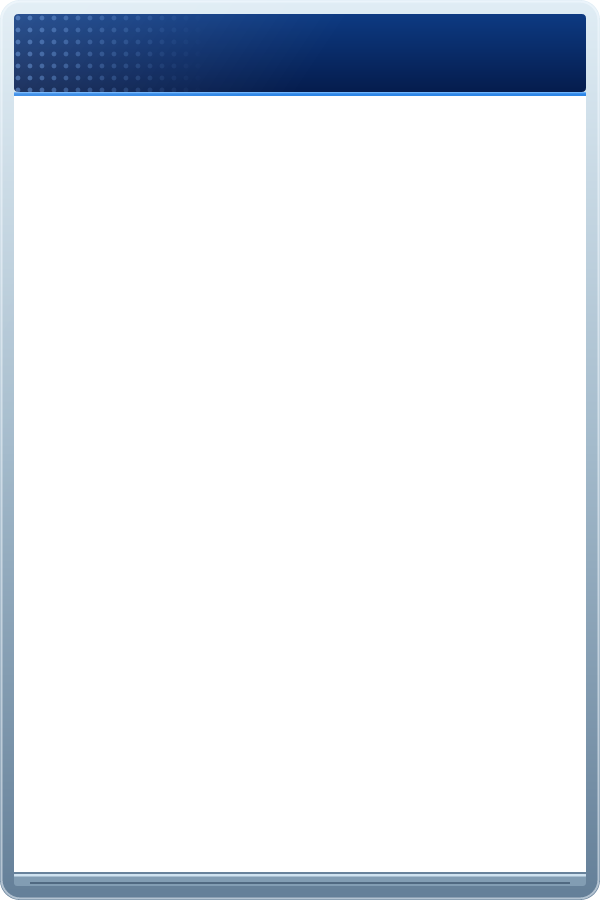
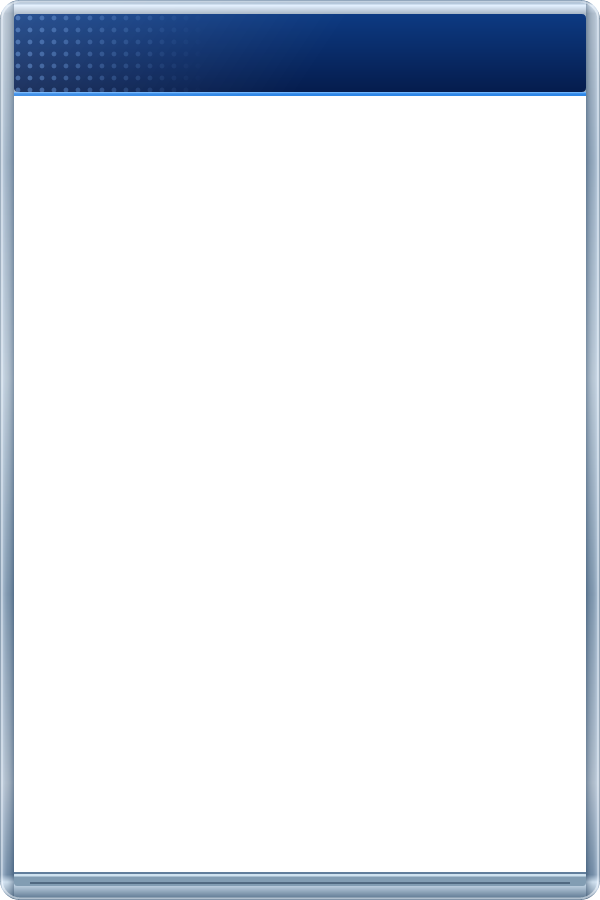
feat: refine Platinum metal and redesign trophy seat

Changed region(s): [[0.0, 0.0, 1.0, 0.9956]]

diff --git a/tools/build_platinum_rim.py b/tools/build_platinum_rim.py
@@ -1,5 +1,6 @@
 """Render platinum case material with the original frame SVG geometry."""
 import io
+import re
 import sys
 from pathlib import Path
 
@@ -12,14 +13,37 @@ from tools.build_frame import ORIGINAL_COLORS, platform_svg, FONT
 
 def main():
     palette = dict(ORIGINAL_COLORS)
-    palette.update(case_top="#e0edf5", case_mid="#a3bacb", case_bottom="#647f98",
+    palette.update(case_top="#abb9c8", case_mid="#8198b0", case_bottom="#607d9b",
                    edge="#f4faff", lip_base="#829db3", lip_high="#e4f4ff",
                    lip_shadow="#435c74")
-    data = resvg_py.svg_to_bytes(svg_string=platform_svg(palette),
+    markup = platform_svg(palette)
+    metal = '<linearGradient id="case" x1="0" y1="0" x2="0" y2="1">' + ''.join(
+        '<stop offset="%s" stop-color="%s"/>' % pair for pair in (
+            ('0','#607d9b'),('.006','#e3f0ff'),('.015','#abb9c8'),
+            ('.18','#8ba2b9'),('.42','#bac9d7'),('.66','#718ca6'),
+            ('.87','#abb9c8'),('.972','#607d9b'),('.98','#d6e7f6'),('1','#526d87'))) + '</linearGradient>'
+    markup = re.sub(r'<linearGradient id="case".*?</linearGradient>', metal, markup)
+    cross = '<linearGradient id="cross" x1="0" y1="0" x2="1" y2="0">' + ''.join(
+        '<stop offset="%s" stop-color="%s" stop-opacity="%s"/>' % stop for stop in (
+            ('0','#344e69','.6'),('.004','#e3f0ff','.5'),('.012','#abb9c8','.25'),
+            ('.023','#344e69','.45'),('.024','#abb9c8','0'),
+            ('.976','#abb9c8','0'),('.977','#344e69','.45'),
+            ('.988','#abb9c8','.25'),('.996','#e3f0ff','.5'),('1','#344e69','.6'))) + '</linearGradient>'
+    markup = markup.replace('</defs>', cross + '</defs>')
+    # A material reflection on the existing body, before the original bevel,
+    # lip and header layers. This introduces no new outline or geometry.
+    markup = markup.replace('<rect x="1.5"',
+        '<rect width="600" height="900" rx="20" fill="url(#cross)"/><rect x="1.5"', 1)
+    data = resvg_py.svg_to_bytes(svg_string=markup,
                                 width=600, height=900, font_files=[FONT])
     output = Path(__file__).resolve().parents[1] / "assets" / "platinum-rim.png"
     Image.open(io.BytesIO(data)).save(output)
     print(output)
+    trophy = output.with_name("platinum-trophy.png")
+    source = output.parents[1] / "tools" / "src" / "platinum-trophy.svg"
+    Image.open(io.BytesIO(resvg_py.svg_to_bytes(svg_string=source.read_text(),
+               width=600, height=900))).save(trophy)
+    print(trophy)
 
 
 if __name__ == "__main__":

diff --git a/platinum_frame.py b/platinum_frame.py
@@ -1,37 +1,14 @@
 """Original platinum rim and trophy, composited over an existing platform frame."""
 from functools import lru_cache
 
-from PIL import Image, ImageDraw
+from PIL import Image
 
 
 @lru_cache(maxsize=1)
 def overlay():
-    scale = 3
-    size = (600, 900)
-    layer = Image.new("RGBA", (size[0] * scale, size[1] * scale))
-    draw = ImageDraw.Draw(layer)
-
-    def box(coords):
-        return tuple(value * scale for value in coords)
-
-    # One original cup silhouette, centered entirely in the lower lip.
-    outline = (40, 57, 75, 255)
-    metal = (226, 239, 247, 255)
-    light = (250, 253, 255, 255)
-    shadow = (126, 162, 186, 255)
-    draw.ellipse(box((276, 874, 324, 897)), fill=outline)
-    draw.ellipse(box((278, 876, 322, 895)), fill=(77, 105, 129, 255))
-    draw.arc(box((281, 876, 297, 890)), 70, 275, fill=metal, width=2 * scale)
-    draw.arc(box((303, 876, 319, 890)), 265, 110, fill=metal, width=2 * scale)
-    draw.polygon([(x * scale, y * scale) for x, y in
-                  ((287, 876), (313, 876), (310, 886), (305, 890),
-                   (295, 890), (290, 886))], fill=metal)
-    draw.line(box((291, 878, 295, 886, 299, 888)), fill=light, width=scale)
-    draw.line(box((309, 878, 305, 886, 302, 888)), fill=shadow, width=scale)
-    draw.rectangle(box((298, 890, 302, 893)), fill=metal)
-    draw.rounded_rectangle(box((292, 893, 308, 896)), radius=scale,
-                           fill=metal, outline=outline, width=scale)
-    return layer.resize(size, Image.Resampling.LANCZOS)
+    from platform_catalog import local_asset
+    with Image.open(local_asset("assets/platinum-trophy.png")) as source:
+        return source.convert("RGBA")
 
 
 def apply(frame):

diff --git a/tests/test_platinum.py b/tests/test_platinum.py
@@ -35,14 +35,16 @@ class PlatinumWorkflow(unittest.TestCase):
                     self.assertEqual(b.size, (600, 900))
                     self.assertEqual(a.getchannel("A").tobytes(), b.getchannel("A").tobytes())
                     self.assertEqual(a.crop((14, 14, 586, 96)).tobytes(), b.crop((14, 14, 586, 96)).tobytes())
-                    self.assertIsNone(ImageChops.difference(a.crop((14, 96, 586, 872)),
-                                                             b.crop((14, 96, 586, 872))).getbbox())
+                    self.assertIsNone(ImageChops.difference(a.crop((14, 96, 586, 836)),
+                                                             b.crop((14, 96, 586, 836))).getbbox())
                     self.assertIsNone(ImageChops.difference(a.crop((38, 20, 562, 84)),
                                                              b.crop((38, 20, 562, 84))).getbbox())
                     for point in ((0, 450), (599, 450), (300, 0), (300, 899)):
                         self.assertNotEqual(a.getpixel(point), b.getpixel(point))
                     self.assertNotEqual(a.getpixel((300, 884)), b.getpixel((300, 884)))
                     self.assertEqual(b.getpixel((300, 500)), a.getpixel((300, 500)))
+                    for region in ((14, 836, 238, 872), (363, 836, 586, 872)):
+                        self.assertEqual(a.crop(region).tobytes(), b.crop(region).tobytes())
                     self.assertTrue(sc.is_steamcase_cover(platinum))
 
     def test_settings_preview_batch_export_and_prepared_cover(self):

diff --git a/tools/build_platinum_preview.py b/tools/build_platinum_preview.py
@@ -56,6 +56,19 @@ def main():
                     cover = cover.convert("RGB").resize(CELL, Image.Resampling.LANCZOS)
                     canvas.paste(cover, (20 + col * 170, y + 16))
     canvas.save(target, optimize=True)
+    import platinum_frame
+    details = Image.new("RGB", (840, 660), "#172536")
+    pen = ImageDraw.Draw(details)
+    with Image.open(root / "assets" / "frames" / "steam.png") as source:
+        normal = source.convert("RGBA")
+    for col, frame in enumerate((normal, platinum_frame.apply(normal))):
+        pen.text((20 + col * 420, 12), "Normal" if col == 0 else "Platinum V2", fill="white")
+        for row, region in enumerate(((0, 0, 100, 100), (0, 350, 35, 450), (230, 830, 370, 900))):
+            crop = frame.crop(region)
+            factor = min(3, 380 // crop.width, 200 // crop.height)
+            crop = crop.resize((crop.width * factor, crop.height * factor), Image.Resampling.LANCZOS)
+            details.paste(crop, (20 + col * 420, 40 + row * 200), crop)
+    details.save(root / "docs" / "platinum-details.png")
     print(target)
 
 

diff --git a/AGENTS.md b/AGENTS.md
@@ -5,6 +5,6 @@
 - `steamcase.py` owns Steam discovery, rendering, apply, portable artwork export/import, backup and restore. `platform_catalog.py` is data-only. `cover_workflow.py` owns source search, cached artwork, credential access and platform export. `case_service.py` composes these backends for both single and bulk workflows; it owns only nonsecret preferences and a queue. `qt_gui.py` runs blocking work in `QThreadPool`; Qt widgets are changed only on the GUI thread. `gui.py` retains its own legacy coordination. Single and bulk Apply use `cover_workflow.export_one` as needed and one `steamcase.apply_covers` call with verified IDs.
 - Steam artwork defaults to Steam CDN; other platforms default to SteamGridDB. Never silently choose a fuzzy game or artwork match. API keys belong only in the OS credential store; do not log or save them in plaintext. Network downloads must use HTTPS, size bounds and image validation.
 - Applying art to Steam must keep backup/restore behavior. Use only existing, verified shortcut IDs read from `shortcuts.vdf`; do not modify Steam's shortcut records. Background Windows subprocesses must not flash consoles; CLI output remains visible.
-- Platinum Edition is a per-game, optional overlay rendered by `platinum_frame.py` through `cover_workflow.py`; it is not a platform. Keep the normal path pixel-identical, the platform logo and art window untouched, and the single trophy within the bottom lip. Preview, Batch, export, Apply, and reset recognition must agree on the selected mode.
+- Platinum Edition is a per-game, optional overlay rendered by `platinum_frame.py` through `cover_workflow.py`; it is not a platform. Keep the normal path pixel-identical, the platform logo and artwork fitting untouched. The single trophy sits in an integrated rounded seat that may overlap the bottom of the art window. Preview, Batch, export, Apply, and reset recognition must agree on the selected mode.
 - Read `README.md` for user workflows (keep it in the Shozei Game Tracker README style: centered header, badges, emoji feature table, short sections; long help, CLI reference and FAQ go in `docs/DETAILS.md`), `docs/stages-1-to-3.md` for frame architecture, `docs/manual-workflow.md` for search/export, and `docs/THIRD_PARTY.md` for asset provenance. Run `python -m unittest discover -s tests`, `python qt_gui.py --selftest`, and `python gui.py --selftest` after behavior changes. `steamcase.spec` builds Qt; `steamcase-tk.spec` builds the fallback.
 - Releases: development stays in `C:\Projects\Case Covers`; GitHub Releases are the only distribution channel, and nothing is copied to any other local drive or folder. Pushing a `vX.Y.Z` tag runs `.github/workflows/release.yml`, which builds, selftests and publishes the Windows EXE, the Windows installer (`CaseCovers-Setup-windows.exe`, after a silent install/selftest/uninstall smoke test), and the macOS and Linux builds. Local Windows builds use `tools\build_windows.ps1 [-Installer]` and `tools\casecovers.iss` (Inno Setup 6); the EXE stays at `dist\CaseCovers.exe` and a verified installer at `build\installer\`. The build derives its version from the latest valid release tag unless `assets/version.txt` is stamped by the release workflow, so tag a new version before building a release with new features. Preserve working app features and user data on every release; installer updates and uninstalls must leave settings and OS-stored credentials intact.

diff --git a/README.md b/README.md
@@ -12,7 +12,7 @@
 ![Linux](https://img.shields.io/badge/Linux-Steam%20Deck-577bce?style=flat-square&logo=steamdeck&logoColor=e8eaf0)
 ![Python](https://img.shields.io/badge/Python-3.12-577bce?style=flat-square&logo=python&logoColor=e8eaf0)
 ![PySide6](https://img.shields.io/badge/PySide6-Qt%206-577bce?style=flat-square&logo=qt&logoColor=e8eaf0)
-![Version](https://img.shields.io/badge/version-1.5.1-83c7ee?style=flat-square)
+![Version](https://img.shields.io/badge/version-1.5.2-83c7ee?style=flat-square)
 
 [**⬇ Download**](../../releases/latest) · [Features](#features) · [Installation](#installation) · [Usage](#usage) · [Development](#development) · [Detailed notes](docs/DETAILS.md)
 

diff --git a/docs/CHANGELOG.md b/docs/CHANGELOG.md
@@ -4,6 +4,9 @@ All notable changes. Versions follow [Semantic Versioning](https://semver.org); 
 
 ## [Unreleased]
 
+## [1.5.2] - 2026-10-28
+- Platinum V2 adds layered steel-blue metal shading and an original upright SVG trophy, seated in a rounded extension of the lower lip. Platform headers and normal covers remain unchanged.
+
 ## [1.5.1] - 2026-10-28
 - Corrected Platinum Edition to reuse the original SVG case geometry, rounded corners, shading and lip layers instead of drawing an extra rectangular outline. Platform headers and artwork remain pixel-identical.
 
